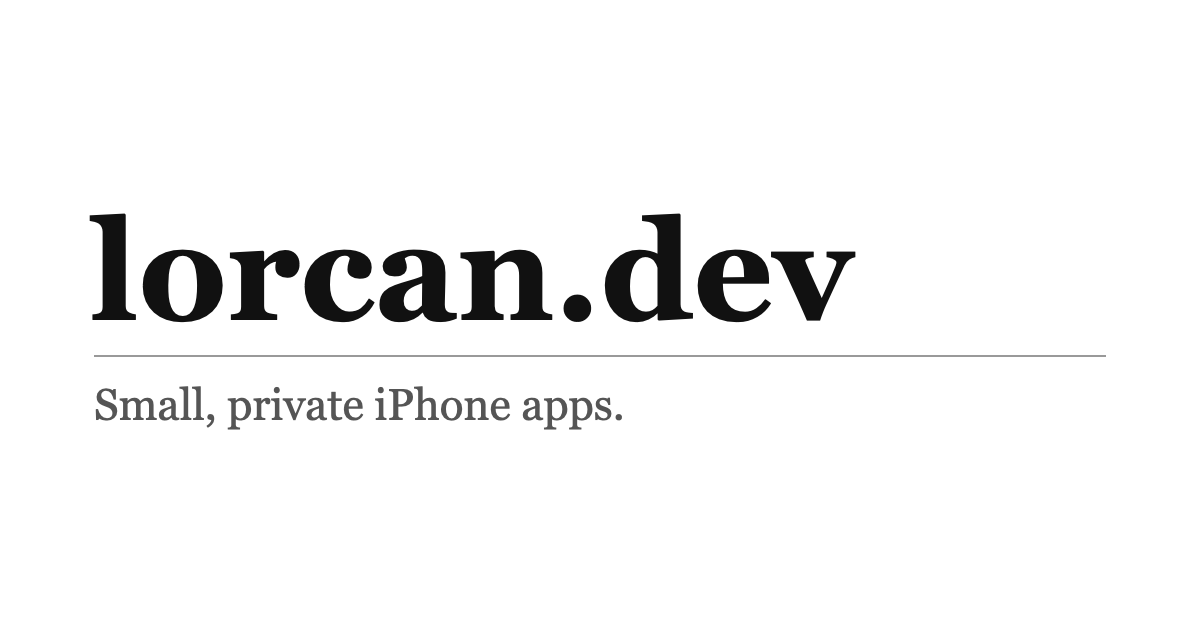
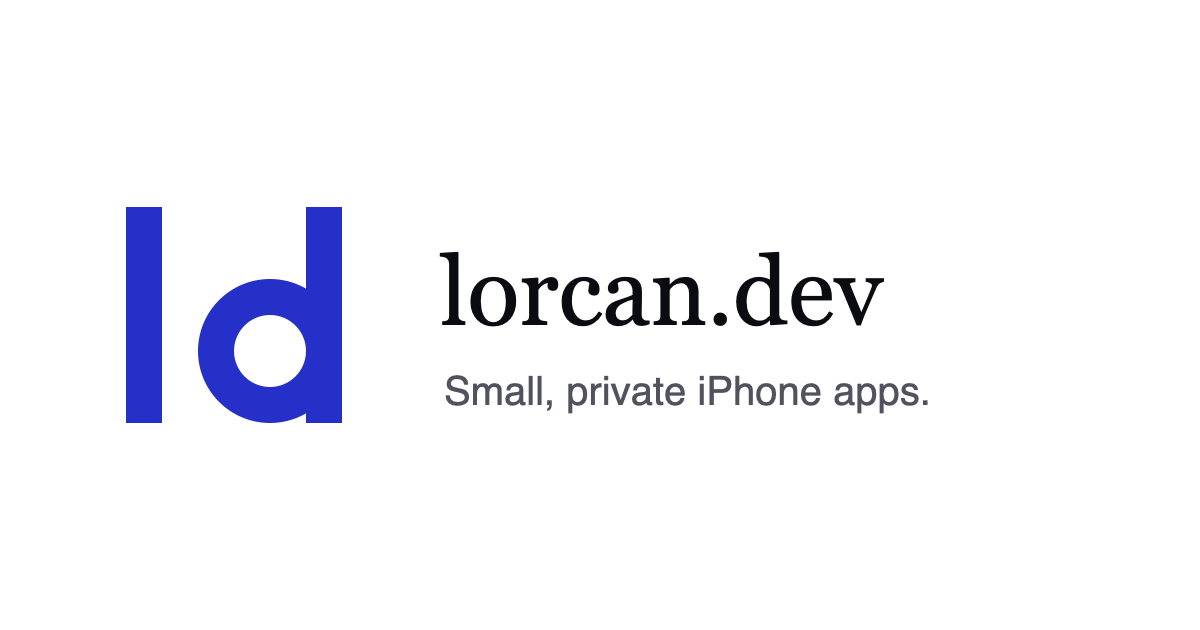
Redesign: minimal and functional, ld monogram as the one artistic touch, system type

Changed region(s): [[0.0617, 0.3317, 0.8942, 0.6937]]

diff --git a/assets/css/site.css b/assets/css/site.css
@@ -1,26 +1,20 @@
 /* lorcan.dev apps: one stylesheet, no framework, no JS, no external requests.
-   Late-90s corporate web: Georgia + Verdana (both drawn in 1996 for screens),
-   a flat title bar, classic link colours, a plain bordered table. */
+   System fonts only. One accent colour, used for links and the mark. */
 :root {
   --bg: #ffffff;
-  --text: #000000;
-  --muted: #4d4d4d;
-  --link: #0033cc;
-  --visited: #551a8b;
-  --bar: #000066;
-  --bar-text: #ffffff;
-  --rule: #808080;
+  --text: #0b0b12;
+  --muted: #51525e;
+  --accent: #2430c8;
+  --rule: #d9d9e0;
   color-scheme: light;
 }
 @media (prefers-color-scheme: dark) {
   :root {
-    --bg: #0c0c0c;
-    --text: #ececec;
-    --muted: #b0b0b0;
-    --link: #8fb4ff;
-    --visited: #c5a3ff;
-    --bar: #1c1c6e;
-    --rule: #6a6a6a;
+    --bg: #0a0a10;
+    --text: #ececf2;
+    --muted: #a2a3b2;
+    --accent: #9aa3ff;
+    --rule: #2a2a36;
     color-scheme: dark;
   }
 }
@@ -30,53 +24,58 @@ body {
   margin: 0;
   background: var(--bg);
   color: var(--text);
-  font: 1rem/1.55 Verdana, Geneva, "DejaVu Sans", sans-serif;
+  font: 1rem/1.65 system-ui, -apple-system, "Segoe UI", Roboto, sans-serif;
   min-height: 100vh;
   display: flex;
   flex-direction: column;
 }
-.wrap { width: 100%; max-width: 44rem; margin: 0 auto; padding: 0 1.25rem; }
-main.wrap { flex: 1; padding-top: 1.5rem; padding-bottom: 3rem; }
+.wrap { width: 100%; max-width: 44rem; margin: 0 auto; padding: 0 1.5rem; }
+main.wrap { flex: 1; padding-top: 3.5rem; padding-bottom: 5rem; }
 
-a { color: var(--link); }
-a:visited { color: var(--visited); }
+a { color: var(--accent); text-underline-offset: .2em; }
 a:hover { text-decoration-thickness: 2px; }
-a:focus-visible { outline: 2px solid var(--link); outline-offset: 2px; }
-.skip { position: absolute; left: -999px; top: 0; background: var(--bg); padding: .4rem .8rem; border: 1px solid var(--rule); }
+a:focus-visible { outline: 2px solid var(--accent); outline-offset: 3px; border-radius: 2px; }
+.skip { position: absolute; left: -999px; top: 0; background: var(--bg); padding: .5rem .9rem; border: 1px solid var(--rule); }
 .skip:focus { left: .5rem; top: .5rem; }
 
-/* the one bold element: a flat title bar */
-.titlebar { background: var(--bar); color: var(--bar-text); }
-.titlebar .wrap { padding-top: 1.1rem; padding-bottom: 1.1rem; }
-.wordmark, .wordmark:visited { font: bold 1.75rem/1.2 Georgia, "Times New Roman", serif; color: var(--bar-text); text-decoration: none; }
+.site-header .wrap { display: flex; justify-content: space-between; align-items: baseline; gap: 1rem; padding-top: 1.75rem; }
+.wordmark { font-weight: 600; color: var(--text); text-decoration: none; letter-spacing: -.01em; }
 .wordmark:hover { text-decoration: underline; }
-.site-nav { border-bottom: 1px solid var(--rule); font-size: .875rem; }
-.site-nav .wrap { padding-top: .5rem; padding-bottom: .5rem; }
+.site-header nav { display: flex; gap: 1.4rem; font-size: .9375rem; }
+.site-header nav a { color: var(--muted); text-decoration: none; }
+.site-header nav a:hover { color: var(--text); text-decoration: underline; }
 
-h1, h2, h3 { font-family: Georgia, "Times New Roman", serif; line-height: 1.25; }
-h1 { font-size: 1.6rem; margin: 0 0 .4rem; }
-h2 { font-size: 1.2rem; margin: 2rem 0 .5rem; }
-h3 { font-size: 1.05rem; margin: 1.5rem 0 .3rem; }
-p, ul, ol, table { margin: 0 0 1rem; }
+h1, h2, h3, .statement { font-family: ui-serif, "New York", Georgia, serif; font-weight: 500; line-height: 1.2; letter-spacing: -.01em; }
+h1 { font-size: 2rem; margin: 0 0 .75rem; }
+h2 { font-size: 1.35rem; margin: 2.5rem 0 .6rem; }
+h3 { font-size: 1.1rem; margin: 1.75rem 0 .3rem; }
+p, ul, ol { margin: 0 0 1.1rem; }
 ul, ol { padding-left: 1.4rem; }
-code { font: .9em ui-monospace, Menlo, Consolas, "Courier New", monospace; }
+code { font: .9em ui-monospace, "SF Mono", Menlo, Consolas, monospace; }
 .meta { color: var(--muted); font-size: .875rem; }
-article p, article li { max-width: 40rem; }
+article { max-width: 38rem; }
 
-/* app list: a plain bordered table */
-table.apps { width: 100%; border-collapse: collapse; font-size: .9375rem; }
-.apps th, .apps td { border: 1px solid var(--rule); padding: .5rem .7rem; text-align: left; vertical-align: top; }
-.apps th { font-weight: bold; }
-.apps caption { caption-side: bottom; text-align: left; padding-top: .4rem; color: var(--muted); font-size: .8125rem; }
-.apps td img { display: block; width: 40px; height: 40px; margin-bottom: .4rem; border-radius: 9px; }
-.apps .sub { display: block; color: var(--muted); }
+/* home */
+.mark { display: block; width: 6rem; height: 6rem; fill: var(--accent); color: var(--accent); margin: 0 0 2.5rem -.5rem; }
+.statement { font-size: clamp(1.9rem, 5.5vw, 2.75rem); margin: 0 0 1rem; max-width: 22ch; }
+.lede { color: var(--muted); font-size: 1.125rem; margin: 0 0 3.5rem; }
+.section-title { font: 600 .9375rem/1.4 system-ui, -apple-system, "Segoe UI", Roboto, sans-serif; letter-spacing: 0; margin: 0 0 .75rem; padding-bottom: .6rem; border-bottom: 1px solid var(--rule); }
+.apps { list-style: none; padding: 0; margin: 0 0 3rem; }
+.apps li { display: flex; gap: 1rem; padding: 1.1rem 0; border-bottom: 1px solid var(--rule); }
+.apps img { width: 3.5rem; height: 3.5rem; border-radius: 12px; flex: none; }
+.apps .name { font: 500 1.2rem/1.3 ui-serif, "New York", Georgia, serif; }
+.apps .name a { color: var(--text); text-decoration: none; }
+.apps .name a:hover { text-decoration: underline; }
+.apps .tagline { display: block; color: var(--muted); }
+.apps .links { display: flex; gap: 1.2rem; margin-top: .35rem; font-size: .9375rem; }
+.empty { color: var(--muted); }
 
-.site-footer { color: var(--muted); font-size: .8125rem; }
-.site-footer .wrap { padding-bottom: 2rem; }
-.site-footer hr { border: 0; border-top: 1px solid var(--rule); margin: 0 0 .8rem; }
-.site-footer p { margin: 0 0 .25rem; }
-.site-footer a, .site-footer a:visited { color: var(--muted); }
+.site-footer { border-top: 1px solid var(--rule); color: var(--muted); font-size: .875rem; }
+.site-footer .wrap { display: flex; flex-wrap: wrap; justify-content: space-between; gap: .4rem 1.5rem; padding-top: 1.25rem; padding-bottom: 2rem; }
+.site-footer p { margin: 0; }
+.site-footer nav { display: flex; flex-wrap: wrap; gap: .4rem 1.2rem; }
+.site-footer a { color: var(--muted); }
 .site-footer a:hover { color: var(--text); }
 
-@media (max-width: 480px) { .wordmark { font-size: 1.5rem; } }
-@media print { .titlebar, .site-nav, .site-footer, .skip { display: none; } }
+@media (max-width: 480px) { main.wrap { padding-top: 2.5rem; } .mark { width: 4.5rem; height: 4.5rem; margin-bottom: 2rem; } }
+@media print { .site-header nav, .site-footer, .skip, .mark { display: none; } }

diff --git a/index.html b/index.html
@@ -2,24 +2,26 @@
 layout: default
 description: Small, private iPhone apps by lorcan.dev. Privacy policies and support for each app.
 ---
-<h1>iPhone apps</h1>
-<p>Small apps that keep your data on your phone. No accounts, no adverts, no tracking.</p>
+{% include mark.html %}
+<p class="statement">Small iPhone apps that keep your data on your phone.</p>
+<p class="lede">No accounts, no adverts, no tracking.</p>
 
-<table class="apps">
-  <caption>Each app has its own privacy policy and support page.</caption>
-  <thead><tr><th scope="col">App</th><th scope="col">Pages</th></tr></thead>
-  <tbody>
-  {% if site.data.apps and site.data.apps.size > 0 %}
-    {% for app in site.data.apps %}
-    <tr>
-      <td><img src="{{ app.icon }}" alt="" width="40" height="40"><a href="/{{ app.slug }}/">{{ app.name }}</a><span class="sub">{{ app.tagline }}</span></td>
-      <td><a href="{{ app.store_url }}">App Store</a><br><a href="/{{ app.slug }}/privacy">Privacy</a><br><a href="/{{ app.slug }}/support">Support</a></td>
-    </tr>
-    {% endfor %}
-  {% else %}
-    <tr><td colspan="2">The first app is in progress. Its page, privacy policy and support page will be listed here when it is on the App Store.</td></tr>
-  {% endif %}
-  </tbody>
-</table>
+<h2 class="section-title">Apps</h2>
+{% if site.data.apps and site.data.apps.size > 0 %}
+<ul class="apps">
+  {% for app in site.data.apps %}
+  <li>
+    <img src="{{ app.icon }}" alt="" width="56" height="56">
+    <div>
+      <span class="name"><a href="/{{ app.slug }}/">{{ app.name }}</a></span>
+      <span class="tagline">{{ app.tagline }}</span>
+      <span class="links"><a href="{{ app.store_url }}">App Store</a><a href="/{{ app.slug }}/privacy">Privacy</a><a href="/{{ app.slug }}/support">Support</a></span>
+    </div>
+  </li>
+  {% endfor %}
+</ul>
+{% else %}
+<p class="empty">The first app is in progress. Its page, privacy policy and support page will be listed here once it is on the App Store.</p>
+{% endif %}
 
 <p>Questions about an app: <a href="mailto:support@lorcan.dev">support@lorcan.dev</a></p>

diff --git a/_layouts/default.html b/_layouts/default.html
@@ -5,9 +5,11 @@
 </head>
 <body>
 <a class="skip" href="#main">Skip to content</a>
-<header>
-  <div class="titlebar"><div class="wrap"><a class="wordmark" href="/" aria-label="lorcan.dev, home">lorcan.dev</a></div></div>
-  <nav class="site-nav" aria-label="Main"><div class="wrap"><a href="/">Apps</a> | <a href="/support">Support</a> | <a href="/privacy">Privacy</a></div></nav>
+<header class="site-header">
+  <div class="wrap">
+    <a class="wordmark" href="/" aria-label="lorcan.dev, home">lorcan.dev</a>
+    <nav aria-label="Main"><a href="/">Apps</a><a href="/support">Support</a><a href="/privacy">Privacy</a></nav>
+  </div>
 </header>
 <main id="main" class="wrap">
 {{ content }}

diff --git a/_includes/footer.html b/_includes/footer.html
@@ -1,7 +1,6 @@
 <footer class="site-footer">
   <div class="wrap">
-    <hr>
     <p>© 2026 lorcan.dev</p>
-    <p><a href="/privacy">Privacy</a> | <a href="/support">Support</a> | <a href="mailto:support@lorcan.dev">support@lorcan.dev</a></p>
+    <nav aria-label="Footer"><a href="/privacy">Privacy</a><a href="/support">Support</a><a href="mailto:support@lorcan.dev">support@lorcan.dev</a></nav>
   </div>
 </footer>

diff --git a/_includes/mark.html b/_includes/mark.html
@@ -1,0 +1,1 @@
+<svg class="mark" viewBox="0 0 64 64" aria-hidden="true" focusable="false"><rect x="8" y="8" width="8" height="48"/><circle cx="40" cy="40" r="12" fill="none" stroke="currentColor" stroke-width="8"/><rect x="48" y="8" width="8" height="48"/></svg>
